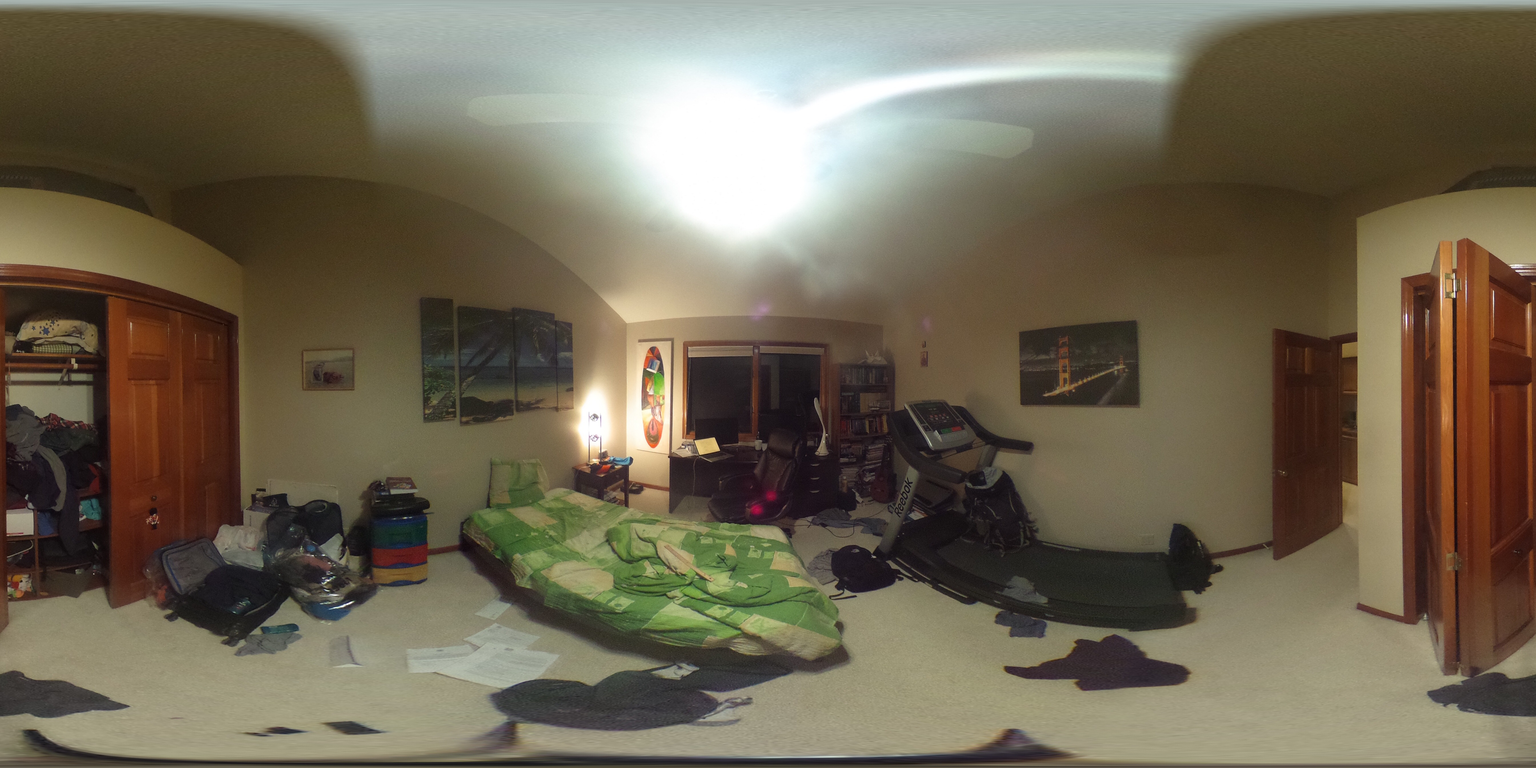
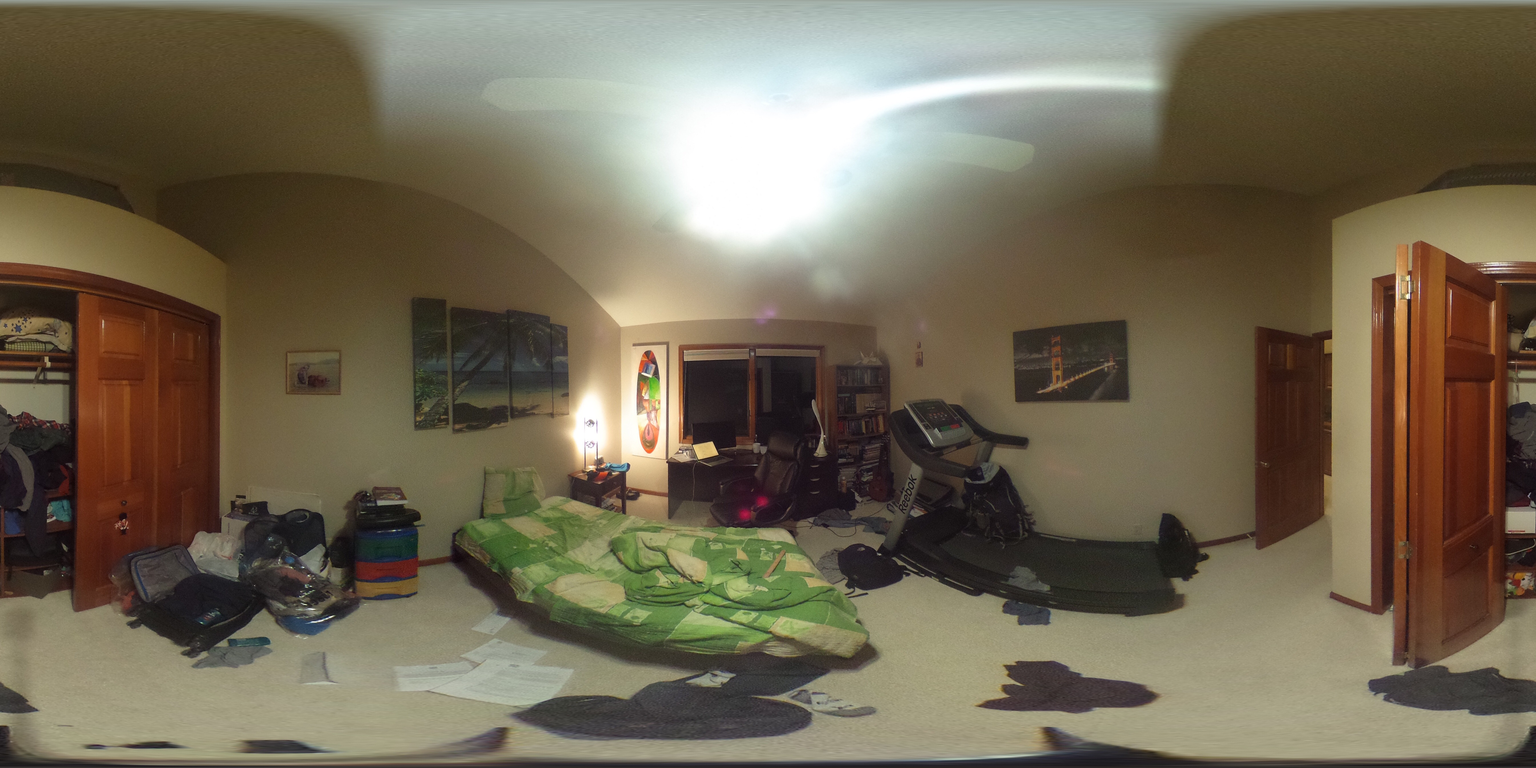
added stereo test

diff --git a/vus-server/server/static/real_estate/room_5/stereo.html b/vus-server/server/static/real_estate/room_5/stereo.html
@@ -11,11 +11,23 @@
 
   <script>
   AFRAME.registerComponent("forward_space", {
-      init: function() {},
+      init: function() {
+        var inversed = false;
+      },
       tick: function() {
           var camera = document.querySelector("a-camera")
           var angle = camera.getAttribute("rotation")
-          // if y angle over 180, then might need to switch the eyes
+          // if y angle over 180, then might need to switch the eyes. For now... But later make sides be non-stereo.
+          if(angle.y > 180 && !inversed){
+              document.getElementById("stl").setAttribute("src", "#right")
+              document.getElementById("str").setAttribute("src", "#left")
+              inversed = true;
+          }
+          else if(angle.y < 180 && inversed){
+              document.getElementById("stl").setAttribute("src", "#left")
+              document.getElementById("str").setAttribute("src", "#right")
+              inversed = false;    
+          }
           // if x angle less than 65, then switch to non stereo
       }
   });
@@ -24,8 +36,8 @@
 <body>
     <a-scene>
         <a-assets>
-          <img id="left" src="assets/right.jpg" />
-          <img id="right" src="assets/left.jpg" />
+          <img id="left" src="assets/left.jpg" />
+          <img id="right" src="assets/right.jpg" />
         </a-assets>
 
       <!-- we tell here the camera to render (outside VR mode, in monoscopic mode) everything without the 'stereo' component active
